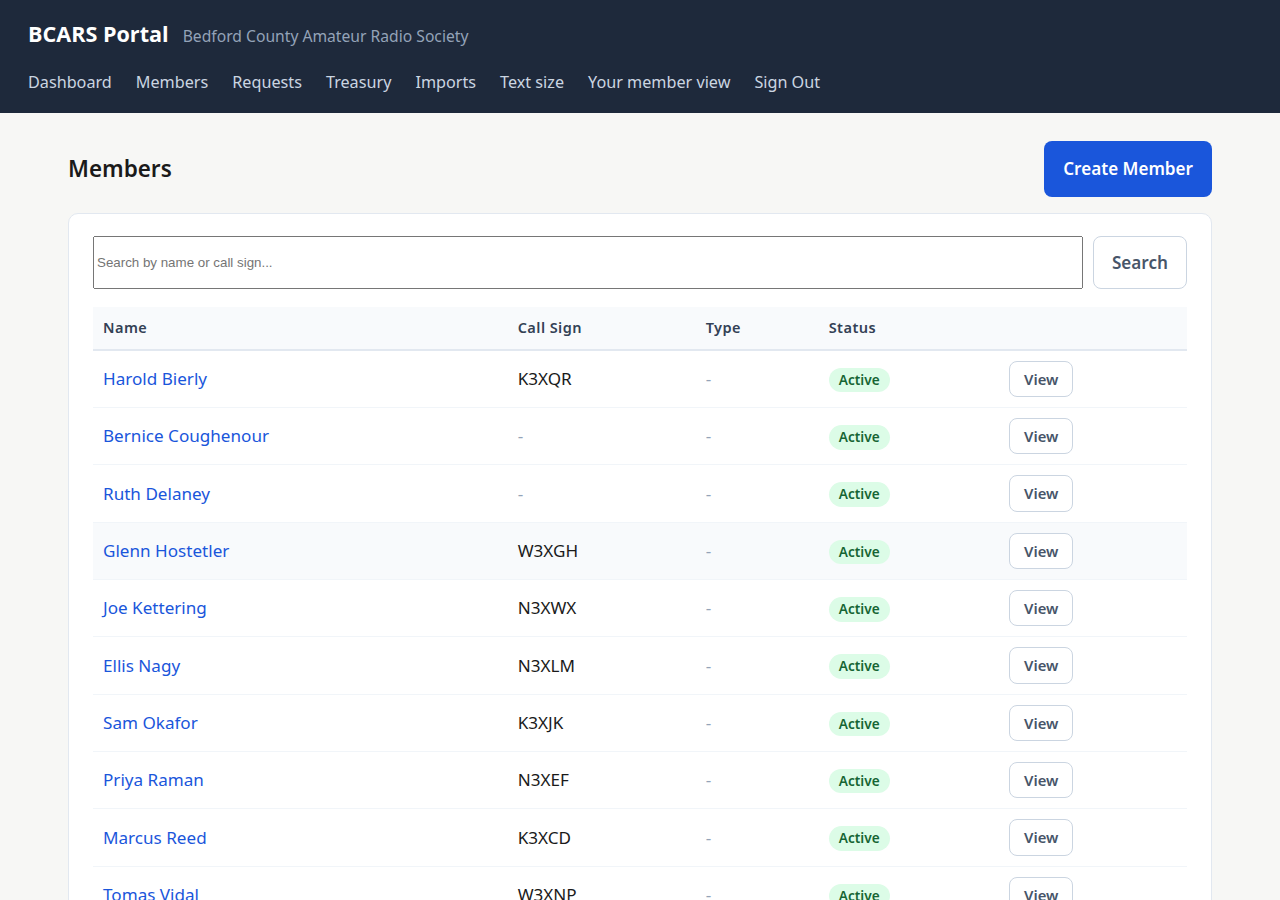
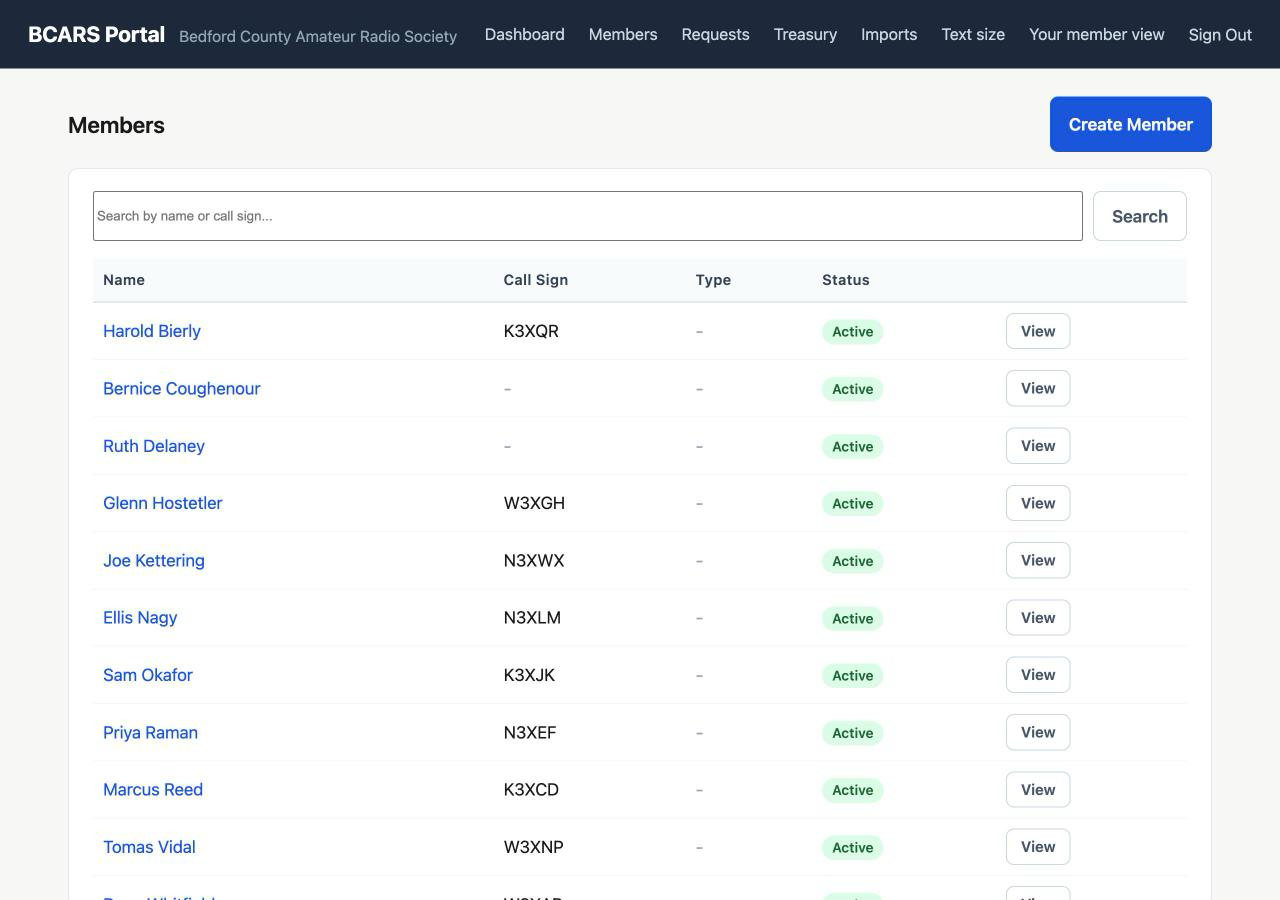
docs(screens): refresh the walkthrough for the ADR-0014 workflow (ssz.5) (#127)
The committed screens still showed the correction workflow ADR-0014
replaced: a form asking which single field was wrong, and a review card
answering yes or no to the string a member sent. The design document still
described that model too, and described unresolved target hints as an
input to applying an item, which is exactly the dead end ssz.4 removed.

The walk gains three screens and loses none. Reviewing an edit and closing
a note are the two screens that carry the new workflow, and neither
existed before; the member's correction form is now an edit form over the
record. That renumbers everything after the officer section, so the whole
set is renumbered once rather than leaving gaps.

scripts/ui-walkthrough.sh is updated to produce this set. The member now
files an edit and a note BEFORE the officer screens are taken: an empty
queue photographs as an empty queue, and the two review screens have
nothing to show without one of each. Which request is which is read from
the page rather than assumed from an id, so a walk against a portal that
already had requests in it does not photograph somebody else's.

The screens in this commit were captured by hand against `make run-demo`,
because agent-browser is not installed on this machine and the script
refuses to run without it. Same portal, same rule, same 1280x900 frame;
the script is updated so the next person with the tool gets the same set.
The captures went through JPEG, so they are very slightly softer than the
[…]

diff --git a/internal/web/templates/member_home.html b/internal/web/templates/member_home.html
@@ -59,14 +59,14 @@
 {{end}}
 
 <div class="card">
-    <h2>Suggest a correction</h2>
+    <h2>Something wrong about another member?</h2>
     <p class="note">
-        Noticed something wrong in the club's records — for you or for another
-        member? Send a suggestion and an officer will review it. You do not need
-        to be able to see someone's record to tell us about a mistake in it.
+        Correct your own details on your record above. For anyone else, tell the
+        officers what you know and one of them will put it right — you do not
+        need to be able to see someone's record to report a mistake in it.
     </p>
     <p>
-        <a class="btn btn-primary" href="/member/suggest">Suggest a correction about someone else</a>
+        <a class="btn btn-primary" href="/member/suggest">Tell the officers about another member</a>
     </p>
     {{if .OpenRequests}}
     <p class="note">

diff --git a/internal/web/templates/member_requests.html b/internal/web/templates/member_requests.html
@@ -39,6 +39,6 @@
     {{else}}
     <p class="empty-state">You have not sent any suggestions yet.</p>
     {{end}}
-    <p><a class="btn btn-secondary" href="/member/suggest">Suggest a correction about someone else</a></p>
+    <p><a class="btn btn-secondary" href="/member/suggest">Tell the officers about another member</a></p>
 </div>
 {{end}}

diff --git a/docs/phase-3-design.md b/docs/phase-3-design.md
@@ -1,6 +1,16 @@
 # Phase 3 Design: Reviewed Member Requests and Optional Access
 
-Status: planned under epic `bcars-portal-4ux`.
+Status: shipped under epic `bcars-portal-4ux`; the correction workflow was
+reshaped by [ADR-0014](adr/0014-corrections-are-edits-and-notes.md) under epic
+`bcars-portal-ssz`.
+
+ADR-0014 wins where this document and it disagree. It narrows
+[ADR-0013](adr/0013-authenticated-member-corrections.md) rather than replacing
+it: submission still requires authentication, there is still no public form, a
+member may still report about a person they cannot see with no grant and no
+recorded relationship, and members still cannot write canonical data. What
+changed is the SHAPE of a correction, described under "Corrections after
+ADR-0014" below.
 
 This document is the standalone design authority for Phase 3. It distills the
 member-directory and correction-workflow decisions that were previously present
@@ -19,8 +29,8 @@ their first password or replace a forgotten one; it is not a separate sign-in
 method. Active approved Full members may browse and print a private directory
 whose contact values are filtered by the server. Associate members may use their
 own optional access but may not browse the directory. Any authenticated member,
-including an Associate, may suggest a correction about another person without
-receiving profile access to that person.
+including an Associate, may report a correction about another person, as a
+note, without receiving profile access to that person.
 
 Member input never changes canonical records directly. An officer reviews each
 proposed item, and only an approved, supported item is applied through the
@@ -90,10 +100,12 @@ accessible MVP decisions until `bcars-portal-6pz` begins.
     note, the repository confirmation control, and a reviewer other than the
     requester. Ordinary officer-entered contact corrections may be entered and
     approved by the same officer when policy permits it.
-11. Any authenticated member, including an Associate, may suggest a correction
-    about another person without an access grant to that record. Submission
-    accepts bounded target hints for officer triage and returns no lookup result,
-    current value, or new access. Anonymous callers cannot submit.
+11. Any authenticated member, including an Associate, may report a correction
+    about another person without an access grant to that record. Since ADR-0014
+    such a report is a NOTE: it carries no structured item, because nothing
+    could apply one against a record the sender may not see. Submission accepts
+    bounded name/call-sign hints for officer triage and returns no lookup
+    result, current value, or new access. Anonymous callers cannot submit.
 12. Directory eligibility is based on an active approved Full membership, not
     dues standing. Honorary status changes dues, not the underlying Full or
     Associate rights.
@@ -166,9 +178,12 @@ The following existing hardening work was completed before the member shell:
 
 A request records its source, optional authenticated requester, optional target
 person, supplied requester/contact snapshot, stated relationship, status, and
-submission/triage timestamps. An authenticated cross-member suggestion may
-begin with only bounded name/call-sign hints; an officer links it later without
-changing what the submitter supplied. Member submission never performs a target
+submission/triage timestamps, and — once an officer has finished with it — who
+resolved it and optionally what they did. An authenticated cross-member report
+may begin with only bounded name/call-sign hints; an officer links it later
+without changing what the submitter supplied. Since ADR-0014 that link is a
+filing aid rather than a precondition for applying anything, because such a
+report carries no item to apply. Member submission never performs a target
 lookup for the caller.
 
 Each item records a typed operation, proposed value, optional target resource and
@@ -257,20 +272,96 @@ deterministic identifier tie-breaker. Pagination and print use the same filtered
 query/service; the print adapter may request the full filtered result within a
 documented club-sized maximum.
 
-## Authenticated cross-member suggestions
+## Corrections after ADR-0014
 
-A provisioned member may submit a correction suggestion about another person
-without an active access grant to that person's profile. This is submission
-authority, not delegated management: the caller receives no profile data,
-current contact values, match candidates, or directory access from the request.
-Every item remains pending until an officer reviews it.
+A correction takes one of three shapes, decided by what the sender can already
+see.
 
-Full members may start from a person already visible in the private directory.
-Associates cannot browse that directory, but receive the same correction ability
-through bounded name/call-sign hints that an officer resolves during triage. The
-response shows the requester only what they submitted and a generic review
-status. Anonymous callers use an offline channel through an officer; there is no
-public correction form or API.
+**An officer editing a record edits it.** No proposal and no queue. The review
+queue exists for people who cannot write to the record, not as ceremony around
+people who can.
+
+**A member who can see a record gets an edit form for it** — their own record,
+or one an officer granted them. The form mirrors the record: name, call sign,
+and the current value of each contact detail, each editable, plus a note box.
+Submitting creates ONE request carrying one item per field the member actually
+changed; unchanged fields propose nothing. Existing values only — adding or
+removing a contact detail is described in the note box and an officer does it,
+because a form that creates and archives rows needs a review screen that can
+apply creations and archives, and correcting a wrong digit does not need that.
+
+Each item carries the version its sender was looking at, so an approval weeks
+later is refused as a conflict rather than quietly undoing an officer's more
+recent edit.
+
+**Everything else is a note.** A member reporting something about a record they
+cannot see writes what they know and that is the whole submission: no items, no
+proposed values, and nothing to resolve a target for. An officer reads it and
+edits the record, which is what they would do with the same sentence heard at a
+meeting. The API refuses a structured item on such a submission rather than
+converting it silently, so a client that believes it proposed a change is told
+it did not.
+
+This replaced a form that asked which single field was wrong and produced an
+item naming no record. Nothing could ever apply one: linking the REQUEST did not
+give the ITEM a target, so an officer who linked it was told to link it
+(`bcars-portal-3la`). Items now exist only where the submitter could already
+read the record, so an item always arrives with its target known.
+
+### Review
+
+Review is one form over the whole request, not a decision per field. Each
+proposed change appears beside the value currently on the record, editable, with
+a tick to include it; one action applies everything ticked. An officer who can
+see that a member mistyped one character corrects it and approves, instead of
+rejecting and asking the member to send the whole thing again.
+
+What the member proposed is never rewritten. The applied value and the reviewing
+officer are recorded next to it, so a member reading their own suggestion
+afterwards sees both what they asked for and what was done, and those may
+differ.
+
+Unticking a change leaves it PENDING rather than rejecting it: a member is owed
+a reason for a refusal and an empty checkbox is not one. Declining is a separate
+action carrying one reason for everything still open. Each change applies in its
+own transaction and partial success is reported, so a stale target on the third
+change does not undo the first two.
+
+Per-field sensitivity policy is unchanged in intent: a sensitive change still
+requires a verification note, still cannot be approved by the member who
+requested it, and a replayed apply still returns the recorded outcome rather
+than applying twice.
+
+### Closing a request
+
+A request resolves on its own once every item is terminal. A note has no items,
+so nothing empties its queue slot: an officer marks it done explicitly, and that
+records who did it and, optionally, one line about what they did. The queue
+opens on what is still outstanding; finished work is behind a filter rather than
+mixed into the pile.
+
+Marking done is refused while a proposed change is still pending, because
+closing it would tell the member their suggestion was dealt with when no officer
+ever decided it.
+
+## Authenticated cross-member reports
+
+A provisioned member may report a correction about another person without an
+active access grant to that person's profile. This is submission authority, not
+delegated management: the caller receives no profile data, current contact
+values, match candidates, or directory access from the request.
+
+Full members may start from a person visible in the private directory.
+Associates cannot browse that directory and use the same form, describing the
+person in their own words. The response shows the requester only what they
+submitted and a generic review status; the officer's conclusion about who it
+concerned is never echoed back, nor is the value an officer applied to a record
+the caller may not see. Anonymous callers use an offline channel through an
+officer; there is no public correction form or API.
+
+Such a report carries no structured item (see "Corrections after ADR-0014"),
+so an officer resolves it by editing the record and marking the note done rather
+than by triaging an item onto a target.
 
 ## Informational relationships
 
@@ -282,8 +373,9 @@ not appear in the member directory.
 A relationship can help an officer understand why one person is suggesting a
 change for another. It does not grant profile visibility or approval rights, and
 it is not required for request submission. Any authenticated member already may
-suggest a correction about another person; a separate access grant is needed
-only to read that person's safe profile.
+report a correction about another person; a separate access grant is needed
+only to read that person's safe profile, and an edit form is offered only for a
+record the caller may already read.
 
 ## API contract
 
@@ -292,12 +384,13 @@ Exact paths are finalized in OpenAPI without changing these resource boundaries.
 | Operation family | Capability | Contract purpose |
 | --- | --- | --- |
 | officer request create/list/detail/triage | `change_request.manage` | Capture every channel and resolve unlinked target hints. |
-| per-item review/apply | `change_request.review` | Decide and apply supported items with concurrency, idempotency, and sensitivity policy. |
+| per-item review/apply | `change_request.review` | Decide and apply supported items with concurrency, idempotency, and sensitivity policy. A reviewer may supply the value to apply when it differs from the one proposed; the proposal is not overwritten. |
+| mark a request done | `change_request.review` | Close a request an officer has finished with, recording who and optionally what they did. Refused while an appliable item is still pending. |
 | member access grant/revoke | `member_access.manage` | Explicitly associate a provisioned user with person records. |
 | relationship CRUD | `relationship.manage` | Maintain informational links independently of access. |
 | password sign-in and recovery | public | Reuse the existing enumeration-safe recovery/password/session operations for members and officers. |
 | own records/profile/request history | `profile.self.read` | Return only explicitly granted safe data. |
-| member request submit/withdraw | `change_request.submit.member` | An authenticated member may suggest changes about self or another person without canonical mutation or target read access. |
+| member request submit/withdraw | `change_request.submit.member` | An authenticated member may propose changes to a record they may see, or send a note about anyone else, without canonical mutation or target read access. A submission about somebody else carries only `other` items. |
 | directory list/print feed | `directory.read` plus resource policy | Full-member-only, consent-filtered directory. |
 
 All operations are registered through the generic HTTP layer. Sensitive reads,
@@ -320,8 +413,9 @@ Associate members, and sign-out.
 The directory is a plain sortable table with name, call sign, email, and phone.
 Printing is a primary action. Hidden and absent contact cells say “Not shared,”
 and the print view identifies the Bedford County Amateur Radio Society. A link
-from the directory may start the reviewed correction flow for that listed
-person. Associates use target hints without gaining directory access.
+from the directory may start a note about that listed person. Associates send
+the same note without gaining directory access, describing the person in their
+own words.
 
 The UI remains a server-rendered adapter. It does not introduce a JavaScript or
 CSS framework, UI-only mutations, or authorization rules present only in a

diff --git a/docs/screenshots/README.md b/docs/screenshots/README.md
@@ -40,6 +40,11 @@ Numbered in walk order. The role prefix is the account the screen was captured
 as; each role runs in its own browser session, so no role's cookie leaks into
 another's screens.
 
+The member files a correction and a note before the officer screens are taken,
+even though the member screens come last. An empty queue photographs as an
+empty queue, and the two screens carrying the correction workflow have nothing
+to show without one of each.
+
 ### Officer / administrator
 
 | | Screen | File |
@@ -47,37 +52,44 @@ another's screens.
 | 01 | Dashboard — club-wide counts and recent audit events | [`01-admin-dashboard.png`](01-admin-dashboard.png) |
 | 02 | Member list with search | [`02-admin-members.png`](02-admin-members.png) |
 | 03 | Member detail — contact methods, memberships, notes | [`03-admin-member-detail.png`](03-admin-member-detail.png) |
-| 04 | Correction requests awaiting review | [`04-admin-requests.png`](04-admin-requests.png) |
-| 05 | Groups.io import — upload and staging | [`05-admin-imports.png`](05-admin-imports.png) |
-| 06 | Dashboard at the larger text size | [`06-admin-dashboard-large.png`](06-admin-dashboard-large.png) |
+| 04 | Correction requests, opening on what is still outstanding | [`04-admin-requests.png`](04-admin-requests.png) |
+| 05 | Reviewing an edit — each change beside the value on the record, editable, tick to include, one apply | [`05-admin-request-review.png`](05-admin-request-review.png) |
+| 06 | Reviewing a note — nothing to apply, so an officer acts on the record and marks it done | [`06-admin-note-review.png`](06-admin-note-review.png) |
+| 07 | Groups.io import — upload and staging | [`07-admin-imports.png`](07-admin-imports.png) |
+| 08 | Dashboard at the larger text size | [`08-admin-dashboard-large.png`](08-admin-dashboard-large.png) |
 
 ### Treasurer
 
 | | Screen | File |
 |---|---|---|
-| 07 | Treasury home — dues standing as of a date | [`07-treasurer-treasury-home.png`](07-treasurer-treasury-home.png) |
-| 08 | Full dues standing | [`08-treasurer-dues-standing.png`](08-treasurer-dues-standing.png) |
-| 09 | Payment batches | [`09-treasurer-batches.png`](09-treasurer-batches.png) |
-| 10 | Single payment entry | [`10-treasurer-payment-entry.png`](10-treasurer-payment-entry.png) |
-| 11 | Renewal worksheet options | [`11-treasurer-worksheet-opts.png`](11-treasurer-worksheet-opts.png) |
-| 12 | Printable renewal worksheet | [`12-treasurer-worksheet-sheet.png`](12-treasurer-worksheet-sheet.png) |
-| 13 | Payment batch entry — defaults, grid and totals | [`13-treasurer-batch-entry.png`](13-treasurer-batch-entry.png) |
+| 09 | Treasury home — dues standing as of a date | [`09-treasurer-treasury-home.png`](09-treasurer-treasury-home.png) |
+| 10 | Full dues standing | [`10-treasurer-dues-standing.png`](10-treasurer-dues-standing.png) |
+| 11 | Payment batches | [`11-treasurer-batches.png`](11-treasurer-batches.png) |
+| 12 | Single payment entry | [`12-treasurer-payment-entry.png`](12-treasurer-payment-entry.png) |
+| 13 | Renewal worksheet options | [`13-treasurer-worksheet-opts.png`](13-treasurer-worksheet-opts.png) |
+| 14 | Printable renewal worksheet | [`14-treasurer-worksheet-sheet.png`](14-treasurer-worksheet-sheet.png) |
+| 15 | Payment batch entry — defaults, grid and totals | [`15-treasurer-batch-entry.png`](15-treasurer-batch-entry.png) |
 
 ### Member
 
 | | Screen | File |
 |---|---|---|
-| 14 | Member landing — your own records | [`14-member-landing.png`](14-member-landing.png) |
-| 15 | Member directory | [`15-member-directory.png`](15-member-directory.png) |
-| 16 | Directory print view | [`16-member-directory-print.png`](16-member-directory-print.png) |
-| 17 | Text size preference | [`17-member-text-size.png`](17-member-text-size.png) |
-| 18 | Suggest a correction — one question, each contact detail a choice | [`18-member-suggest.png`](18-member-suggest.png) |
+| 16 | Member landing — your own records | [`16-member-landing.png`](16-member-landing.png) |
+| 17 | Member directory | [`17-member-directory.png`](17-member-directory.png) |
+| 18 | Directory print view | [`18-member-directory-print.png`](18-member-directory-print.png) |
+| 19 | Text size preference | [`19-member-text-size.png`](19-member-text-size.png) |
+| 20 | Correcting your details — the record as a form, every field holding its own value | [`20-member-edit.png`](20-member-edit.png) |
+| 21 | Telling the officers about another member — a note, proposing nothing structured | [`21-member-note.png`](21-member-note.png) |
 
 ### Signed out
 
 | | Screen | File |
 |---|---|---|
-| 19 | Not found, as a signed-out visitor sees it — no navigation, one way back | [`19-public-not-found.png`](19-public-not-found.png) |
+| 22 | Not found, as a signed-out visitor sees it — no navigation, one way back | [`22-public-not-found.png`](22-public-not-found.png) |
+
+Screens 05, 06, 20 and 21 are the shape ADR-0014 describes: a member edits the
+record they can see, reports anything else as a note, and an officer amends and
+applies in one pass rather than answering yes or no a field at a time.
 
 These show the functional MVP layouts. Visual design and polish are the subject
 of the `6pz` design beads, so treat them as evidence of what each screen *does*
